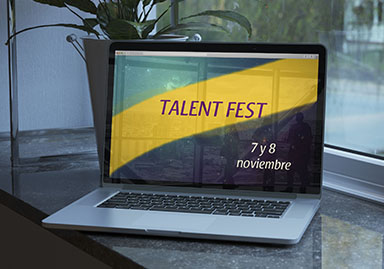
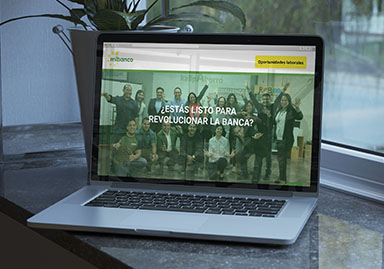
info talentfest

diff --git a/index.html b/index.html
@@ -59,9 +59,9 @@
 					<article class="box style2">
 						<a href="#" class="image featured"><img src="images/talentfest.jpg" alt="" /></a>
 						<br>
-						<h3><a href="" target="_blank">Talent Fest</a></h3>
-						<p>Próximamente 7 y 8 de noviembre.<br>
-							<a href="" target="_blank">Ver el proyecto </a></p>
+						<h3><a href="https://www.figma.com/proto/0OzLLvppiJtzOJ8RSD2zQuLy/mibanco?node-id=0%3A1&scaling=scale-down-width" target="_blank">Talent Fest</a></h3>
+						<p>Mejora para la web de reclutamiento de postulantes a la empresa Mibanco.<br>
+							<a href="https://docs.google.com/presentation/d/1GWO-9AJyDJJEJWMoxIuTr1kwHKISipXKYcqUo11R2lU/edit?usp=sharing" target="_blank">Ver el proyecto </a></p>
 					</article>
 				</div>
 				<div class="col-4 col-6-medium col-12-small">
